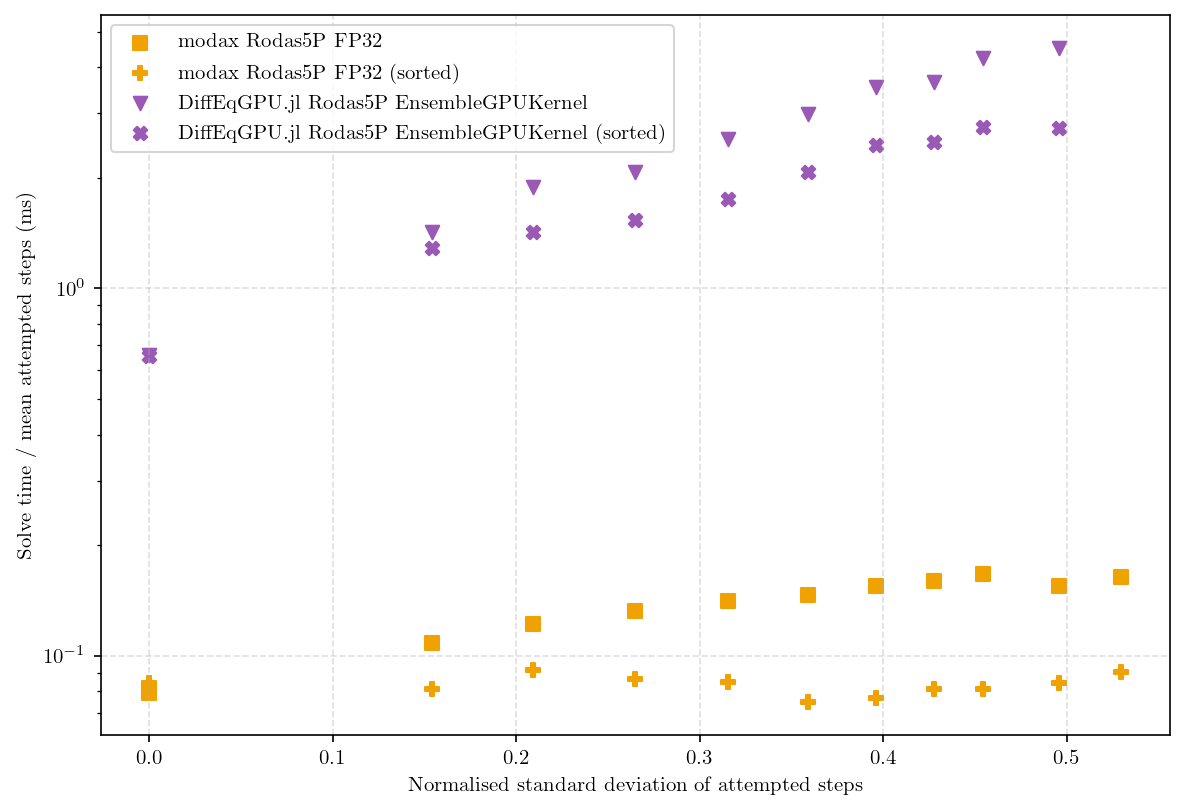
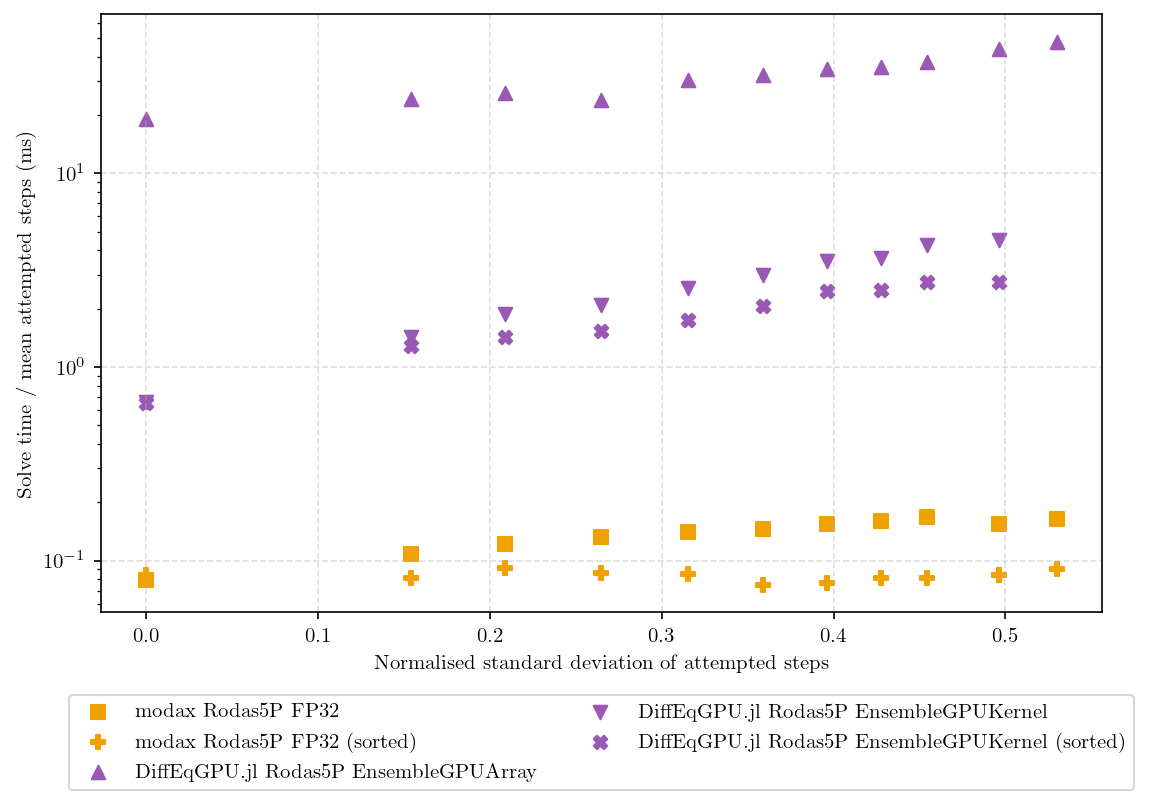
Add DiffEqGPU's EnsembleGPUArray Rodas5P to the Robertson divergence benchmark

diff --git a/benchmarks/stiff_robertson_divergence/main.py b/benchmarks/stiff_robertson_divergence/main.py
@@ -3,7 +3,9 @@
 Runs the Robertson system with 30,000 trajectories while sweeping the
 ``make_scenario(..., divergence=...)`` knob. For each solver and divergence
 value, the benchmark records solve time and the actual distribution of accepted
-plus rejected Rodas5P steps.
+plus rejected Rodas5P steps. DiffEqGPU's EnsembleGPUArray Rodas5P starts from
+a first step of 1e-10 rather than the shared 1e-4, since it cannot recover from
+a rejected first step on a divergent ensemble.
 
 Usage:
     uv run python benchmarks/stiff_robertson_divergence/main.py
@@ -50,6 +52,9 @@ BENCHMARK = DivergenceBenchmark(
     ),
     julia_solve=julia_rodas5P_solve,
     julia_system="robertson",
+    legend_loc="upper center",
+    legend_ncol=2,
+    legend_bbox_to_anchor=(0.5, -0.12),
     cases=(
         DivergenceCase(key="modax rodas5P fp32", color=MODAX_COLOR, marker="s"),
         DivergenceCase(
@@ -67,13 +72,21 @@ BENCHMARK = DivergenceBenchmark(
         #     kwargs={**_SOLVER_KWARGS, "max_steps": 1_000_000},
         #     max_divergence=1.5,
         # ),
-        # DivergenceCase(
-        #     key="julia rodas5P EnsembleGPUArray",
-        #     color=JULIA_COLOR,
-        #     marker="D",
-        #     mode="julia",
-        #     ensemble_backend="EnsembleGPUArray",
-        # ),
+        DivergenceCase(
+            key="julia rodas5P EnsembleGPUArray",
+            color=JULIA_COLOR,
+            marker="^",
+            mode="julia",
+            ensemble_backend="EnsembleGPUArray",
+            # EnsembleGPUArray steps the whole ensemble with one step size,
+            # and once its Rodas5P rejects the first step of a divergent
+            # ensemble it rejects every retry until dt underflows and the
+            # solve returns Unstable, even as dt falls below a first step
+            # that would have succeeded. Its own first-step estimate and 1e-6
+            # fail this way from divergence 1.25 up and 1e-8 at divergence 3;
+            # 1e-10 is accepted at every divergence.
+            kwargs={**_SOLVER_KWARGS, "first_step": 1e-10},
+        ),
         DivergenceCase(
             key="julia rodas5P EnsembleGPUKernel",
             color=JULIA_COLOR,

diff --git a/benchmarks/_divergence.py b/benchmarks/_divergence.py
@@ -65,8 +65,8 @@ class DivergenceCase(BenchmarkCase):
     ``mode`` is ``"stats"`` for the benchmark's own modax solver, timed with
     ``return_stats=True`` so the step distribution comes from the timed run
     itself; ``"julia"`` for a DiffEqGPU ``ensemble_backend``; or ``"timing"``
-    for another JAX solver passed as ``solve_fn`` (``kwargs`` overrides the
-    benchmark's solver settings for it). The latter two report no step counts,
+    for another JAX solver passed as ``solve_fn``. For the latter two,
+    ``kwargs`` overrides the benchmark's solver settings. They report no step counts,
     so the modax solver supplies them, from its cached row for the same
     divergence when it has one and otherwise from a fresh solve.
 
@@ -210,6 +210,7 @@ def _time_solve(
     bench: DivergenceBenchmark, case: DivergenceCase, y0: np.ndarray, params: np.ndarray
 ) -> tuple[float, dict | None]:
     """Solve time in ms and, when the case reports them, the per-trajectory stats."""
+    kwargs = bench.solver_kwargs if case.kwargs is None else case.kwargs
     if case.mode == "julia":
         # An identical ensemble is sent as one initial state.
         if y0.ndim == 2 and np.all(y0 == y0[0]):
@@ -222,12 +223,11 @@ def _time_solve(
             params,
             system_config=bench.julia_system_config,
             ensemble_backend=case.ensemble_backend,
-            **bench.solver_kwargs,
+            **kwargs,
         )
         return ms, None
     if case.mode == "timing":
         assert case.solve_fn is not None
-        kwargs = bench.solver_kwargs if case.kwargs is None else case.kwargs
         if not case.jit:
             solve_fn = case.solve_fn
             ms, _ = time_blocked(
